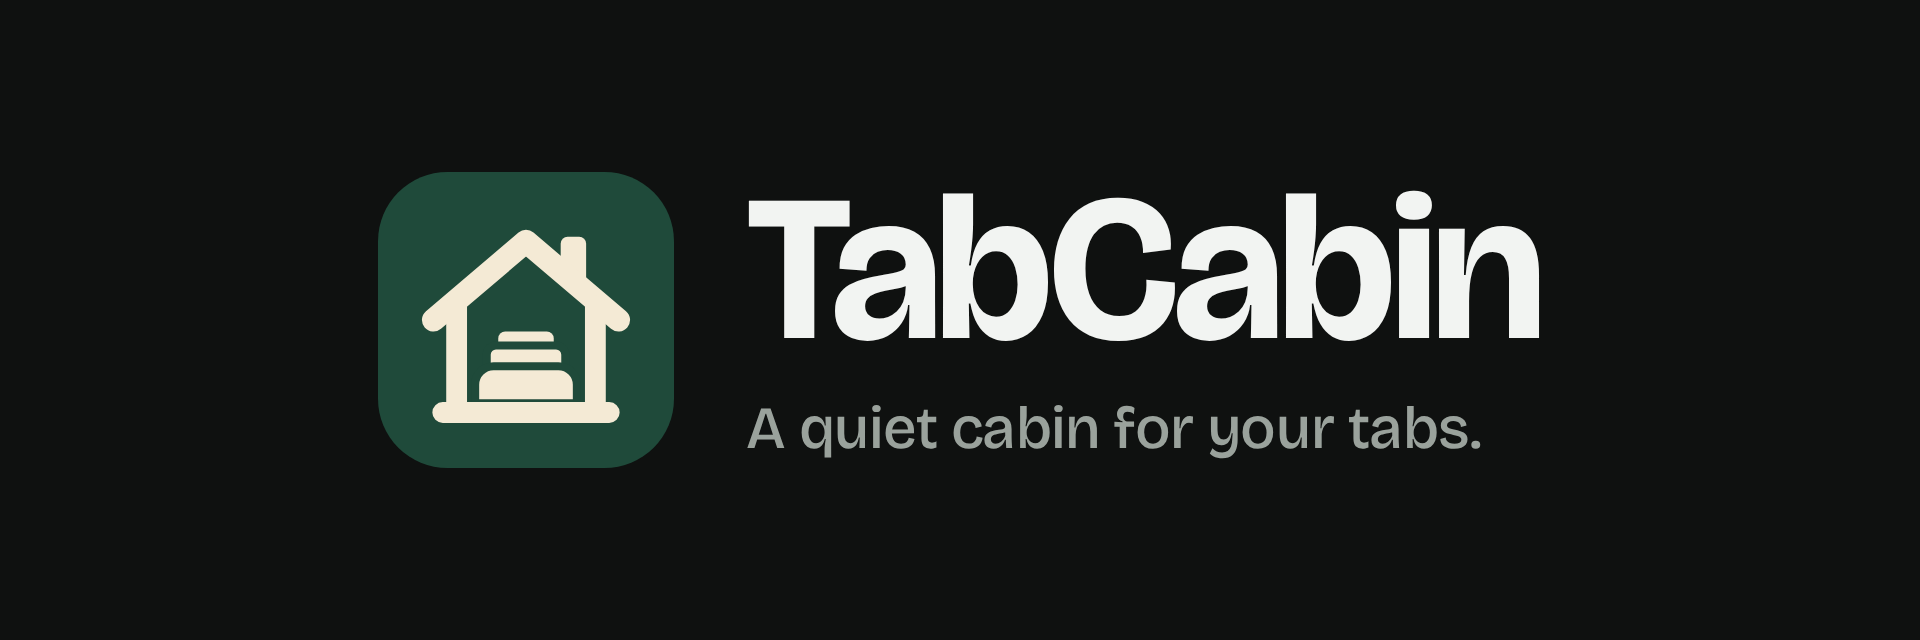
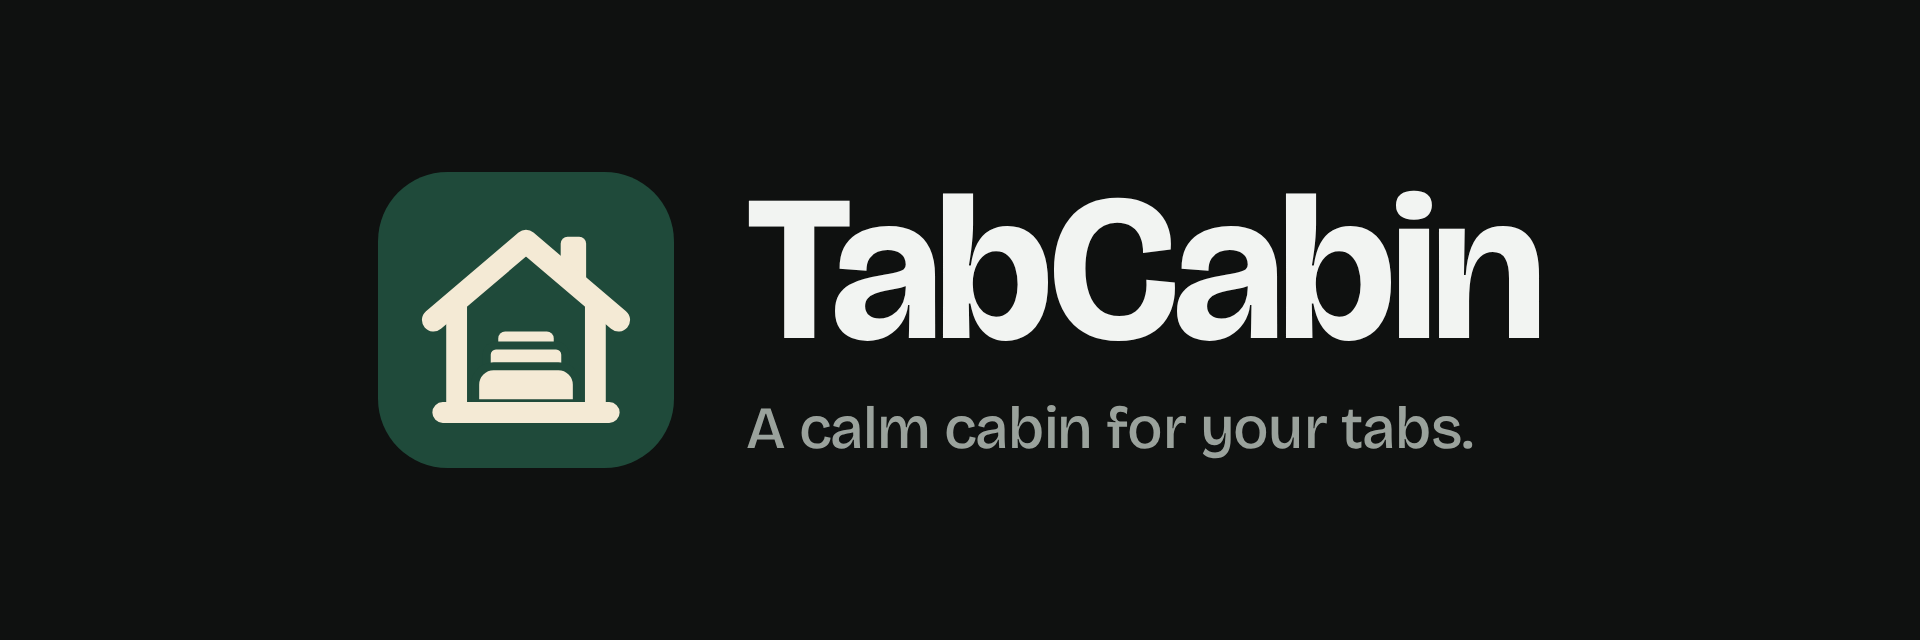
docs(brand): calm cabin tagline and voice lines

Changed region(s): [[0.4062, 0.625, 0.7812, 0.7188]]

diff --git a/apps/extension/scripts/screenshots/brand.shots.ts b/apps/extension/scripts/screenshots/brand.shots.ts
@@ -53,7 +53,7 @@ for (const lockup of lockups) {
   h1 { font-size: 104px; font-weight: 700; letter-spacing: -0.025em; line-height: 0.9; color: ${lockup.text} }
   p { margin-top: 14px; font-size: 30px; font-weight: 500; letter-spacing: -0.01em; color: ${lockup.tagline} }
 </style>
-${mark(lockup.logo)}<div><h1>TabCabin</h1><p>A quiet cabin for your tabs.</p></div>`)
+${mark(lockup.logo)}<div><h1>TabCabin</h1><p>A calm cabin for your tabs.</p></div>`)
     await page.evaluate(() => document.fonts.ready)
     await page.screenshot({ path: join(OUT, `${lockup.name}.png`) })
   })

diff --git a/docs/brand.md b/docs/brand.md
@@ -1,6 +1,6 @@
 # TabCabin brand guide
 
-TabCabin is a quiet cabin for your tabs. The look is calm and grown-up: black, white and pine
+TabCabin is a calm cabin for your tabs. The look is quiet and grown-up: black, white and pine
 green, with one soft cream for the logo. Nothing shouts.
 
 ![TabCabin logo with the wordmark](brand/lockup-light.png)
@@ -94,12 +94,15 @@ soft and low; a dragged card lifts with a pine border.
 
 Calm, warm and short. Say what happens in plain words people already use.
 
-- **Tagline:** "A quiet cabin for your tabs." In Polish: "Spokojny domek dla Twoich kart."
-- **One-liner:** "TabCabin turns every new tab into calm boards for your tabs, links, notes and
+- **Tagline:** "A calm cabin for your tabs." In Polish: "Spokojny domek dla Twoich kart."
+- **Headline on the website:** "A _calm_ cabin for your tabs", with "calm" in pine.
+- **One-liner:** "TabCabin turns every new tab into quiet boards for your tabs, links, notes and
   to-dos — on your computer, synced when you sign in."
 - **Store title:** "TabCabin – Tab Manager, Boards & Notes".
-- **Short description (≤ 132 characters):** "A quiet cabin for your tabs: calm boards for tabs,
-  links, notes and to-dos in every new tab. Private, works offline."
+- **Short description (≤ 132 characters):** "A calm cabin for your tabs: boards for tabs, links,
+  notes and to-dos in every new tab. Private, works offline."
+- **Small lines that fit the voice:** "Close the tabs. Keep the thoughts." · "Every tab gets a
+  place to stay." · "Your cabin, on every computer." · "Back to the cabin."
 
 Do:
 
